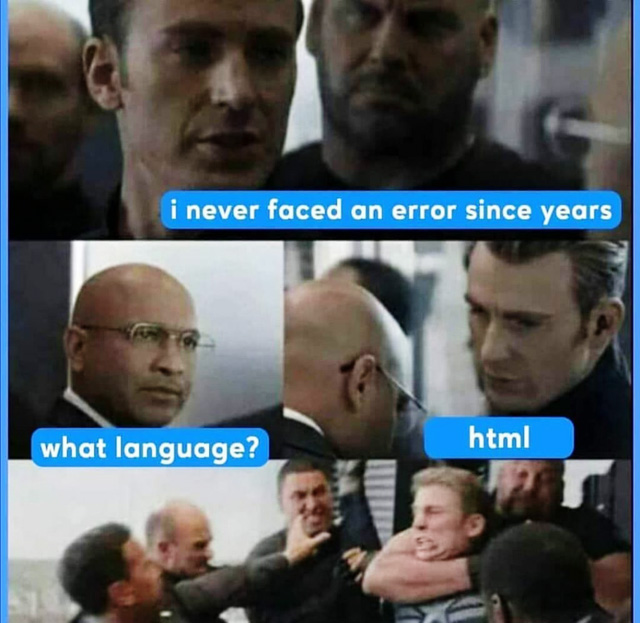
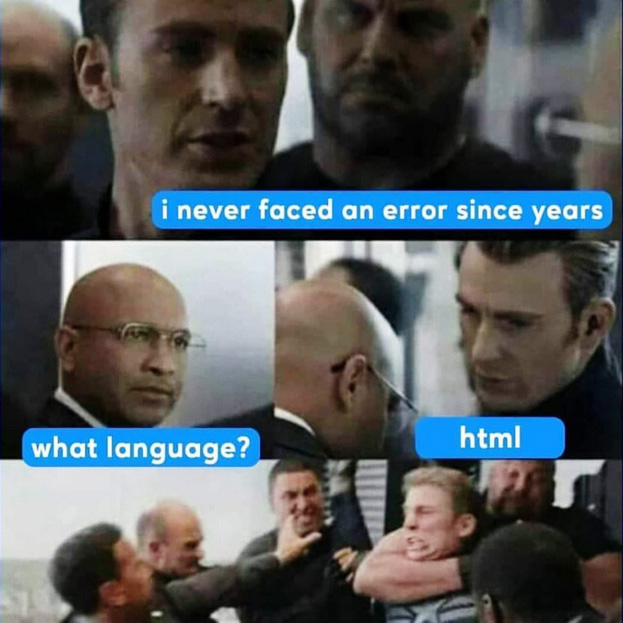
fix: change size pictures, css styles  (2023-03-11, Sat, 16:52:09)

diff --git a/cssBayan/styles/styles.css b/cssBayan/styles/styles.css
@@ -1,12 +1,9 @@
 body {
-	min-height: 100vh;
-	width: 100vw;
-	max-width: 100%;
 	background-color: #f1e4d3;
 }
 
 .accordion {
-	width: 80%;
+	width: 90%;
 	margin: 0 auto;
 }
 
@@ -27,8 +24,35 @@ body {
 	border-top: 1px solid #c2c2c2;
 }
 
+.meme:active .meme__label .meme__title {
+	color: #0055d4;
+}
+
+.meme:active .meme__box .meme__picture {
+	filter: opacity(0.8);
+}
+
+.meme:active .meme__label .meme__icon {
+	color: #0055d4;
+}
+
 .meme__radio {
 	display: none;
+}
+
+.meme__radio:checked~.meme__label .meme__title {
+	color: #111111;
+}
+
+.meme__radio:checked~.meme__label .meme__icon {
+	transform: rotate(45deg);
+}
+
+.meme__radio:checked~.meme__box {
+	opacity: 1;
+	padding-bottom: 1rem;
+	transform: scale(1);
+	max-height: 200rem;
 }
 
 .meme__label {
@@ -42,28 +66,33 @@ body {
 	font-size: 0.8rem;
 	font-weight: 800;
 	color: #0055d4;
+	transition: color 0.2s ease;
 }
 
 .meme__icon {
-	/* visibility: hidden; */
 	width: 0.8rem;
 	transition: transform 0.2s ease;
 }
 
 .meme__box {
-	display: block;
-	width: 100%;
-	margin: 0 auto;
+	display: flex;
+	justify-content: center;
+	max-height: 0;
+	opacity: 0;
+	transition: opacity 0.4s ease,
+		transform 0.4s ease,
+		max-height 0.4s ease;
 }
 
 .meme__picture {
 	width: 100%;
-	margin: 0 auto;
+	transition: width 0.4s ease,
+							filter 0.4s ease;
 }
 
 @media (min-width: 320px) {
 	.accordion {
-		width: 70%;
+		width: 80%;
 		margin: 0 auto;
 	}
 
@@ -74,42 +103,42 @@ body {
 	.meme__title {
 		font-size: 1rem;
 	}
-	
+
 	.meme__icon {
 		width: 1rem;
 	}
 
-	.meme__box {
+	.meme__picture {
 		width: 70%;
 	}
 }
 
 @media (min-width: 820px) {
 	.accordion {
-		width: 60%;
+		width: 50%;
 		margin: 0 auto;
 	}
 
 	.accordion__title {
-		font-size: 1.8rem;
+		font-size: 2rem;
 	}
 
 	.meme__title {
-		font-size: 1.2rem;
-	}
-	
-	.meme__icon {
-		width: 1.2rem;
+		font-size: 1.4rem;
 	}
 
-	.meme__box {
-		width: 50%;
+	.meme__icon {
+		width: 1.4rem;
+	}
+
+	.meme__picture {
+		width: 60%;
 	}
 }
 
 @media (min-width: 1920px) {
 	.accordion {
-		width: 50%;
+		width: 40%;
 		margin: 0 auto;
 	}
 
@@ -118,14 +147,45 @@ body {
 	}
 
 	.meme__title {
-		font-size: 1.5rem;
-	}
-	
-	.meme__icon {
-		width: 1.5rem;
+		font-size: 1.8rem;
 	}
 
-	.meme__box {
-		width: 60%;
+	.meme__icon {
+		width: 1.8rem;
+	}
+
+	.meme__picture {
+		width: 50%;
+	}
+}
+
+@media (hover: hover) {
+	.meme__icon {
+		visibility: hidden;
+	}
+
+	.meme,
+	.meme__label:hover,
+	.meme__box:hover {
+		cursor: pointer;
+	}
+
+	.meme:hover .meme__icon {
+		transform: rotate(45deg);
+	}
+
+	.meme:hover .meme__box {
+		opacity: 1;
+		padding-bottom: 1rem;
+		max-height: 200rem;
+		transform: scale(1);
+	}
+
+	.accordion__list:hover .meme__title {
+		color: #111111;
+	}
+
+	.accordion__list:hover .meme__icon {
+		visibility: visible;
 	}
 }

diff --git a/cssBayan/index.html b/cssBayan/index.html
@@ -15,9 +15,9 @@
 		<h1 class="accordion__title">CSS Bayan</h1>
 		<ul class="accordion__list">
 			<li class="accordion__item meme">
-				<input class="meme__radio" type="radio" name="memes" id="meme1">
+				<input class="meme__radio" type="radio" name="memes" id="meme1" checked>
 				<label class="meme__label" for="meme1">
-					<span class="meme__title">HTML is a Programming Language</span>
+					<span class="meme__title">What language?</span>
 					<img class="meme__icon" src="icons/plus-solid.svg" alt="">
 				</label>
 				<label class="meme__box" for="meme1">
@@ -27,7 +27,7 @@
 			<li class="accordion__item meme">
 				<input class="meme__radio" type="radio" name="memes" id="meme2">
 				<label class="meme__label" for="meme2">
-					<span class="meme__title">When someone says &laquo;HTML & CSS&raquo; Best Programming Language</span>
+					<span class="meme__title">Best Programming Language</span>
 					<img class="meme__icon" src="icons/plus-solid.svg" alt="">
 				</label>
 				<label class="meme__box" for="meme2">
